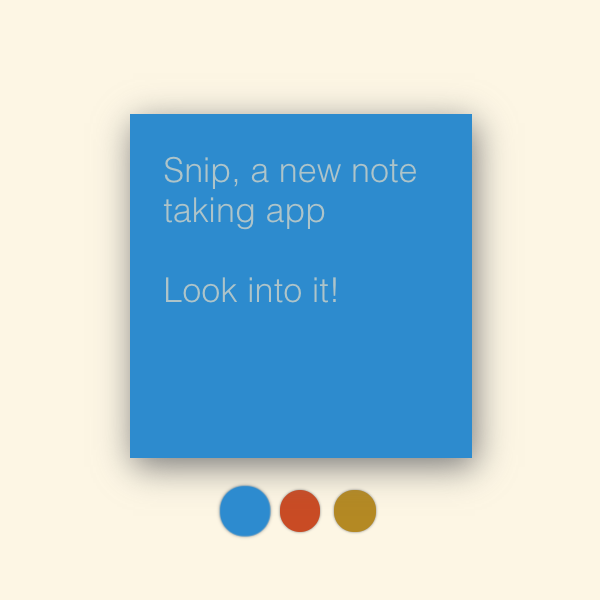
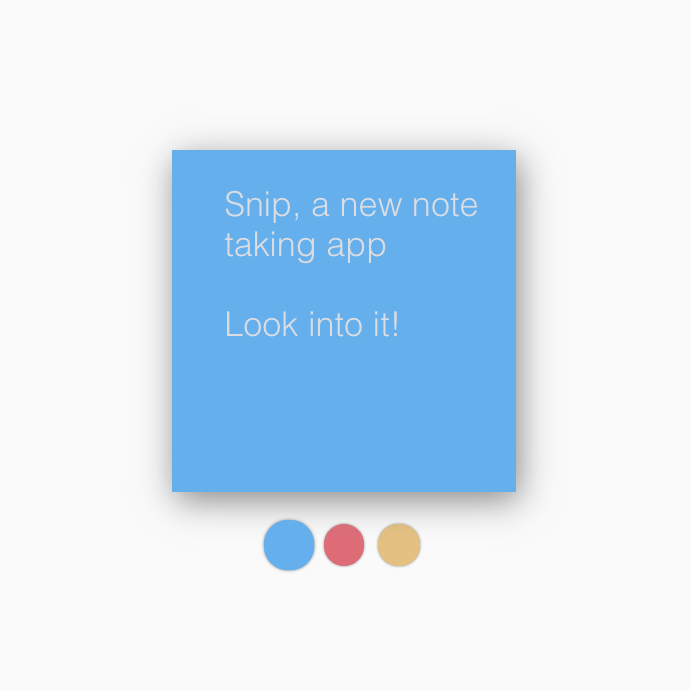
tweaks

diff --git a/css/theme.css b/css/theme.css
@@ -2,14 +2,22 @@ body {
   position: relative;
   display: flex;
   flex-direction: column;
-  font-family: "Inter", sans-serif;
-  background-color: rgb(247, 166, 145);
-  color: white;
+  font-family: "Noto Sans HK";
+  background-color: rgb(246, 249, 250);
+  color: rgb(53, 63, 68);
   justify-content: center;
 }
 
 body * {
   font-weight: lighter;
+  letter-spacing: normal;
+  speak: none;
+  font-style: normal;
+  font-weight: normal;
+  font-variant: normal;
+  text-transform: none;
+  line-height: 1.25;
+  -webkit-font-smoothing: antialiased;
 }
 
 em {
@@ -29,13 +37,22 @@ nav {
 }
 
 a {
-  color: white;
+  color: rgb(53, 63, 68);
+}
+
+h1 {
+  font-size: 2.5em;
+}
+
+h2 {
+  font-size: 2em;
 }
 
 h1,
 h2,
 h3 {
   text-align: center;
+  font-family: "Poppins";
 }
 
 .image-wrapper {
@@ -56,6 +73,7 @@ h3 {
   display: flex;
   align-items: center;
   justify-content: space-between;
+  font-family: "Poppins";
 }
 
 .nav-logo {
@@ -78,7 +96,8 @@ h3 {
 }
 
 .nav-account a {
-  border: 1px solid white;
+  border: 1px solid hsl(355, 65%, 65%);
+  color: hsl(355, 65%, 65%);
   padding: 0.33em;
   border-radius: 0.25em;
   text-decoration: none;
@@ -90,7 +109,7 @@ header {
   justify-content: center;
   align-items: center;
   padding-top: 4em;
-  padding-bottom: 4em;
+  padding-bottom: 5em;
 }
 
 .slogan-1 span {
@@ -98,19 +117,21 @@ header {
 }
 
 .big-screenshot {
-  width: 1317px;
+  width: 1346px;
 }
 
 .download-row {
+  font-family: "Poppins";
   display: flex;
 }
 
 .download-button {
-  font-size: 0.9em;
+  font-size: 1em;
   display: flex;
-  border: 1px solid white;
+  border: 1px solid hsl(355, 65%, 65%);
+  color: hsl(355, 65%, 65%);
   padding: 0.75em;
-  padding-bottom: 0.5em;
+  padding-bottom: 0.33em;
   border-radius: 0.25em;
   align-items: center;
   justify-content: center;
@@ -136,15 +157,11 @@ section {
   justify-content: center;
   align-items: center;
   flex-direction: column;
+  color: rgb(107, 112, 115);
 }
 
 section:nth-child(odd) {
   background-color: white;
-  color: rgb(247, 166, 145);
-}
-
-section:nth-child(odd) a {
-  color: rgb(247, 166, 145);
 }
 
 section:only-of-type {
@@ -184,8 +201,6 @@ section:only-of-type a {
   font-weight: bold;
   margin-bottom: 0.15em;
   display: block;
-  /* font-style: italic; */
-  /* font-size: 1.25em; */
 }
 
 .section-row-informative .section-tile {
@@ -218,6 +233,15 @@ section:only-of-type a {
   text-align: center;
 }
 
+.section-tile span {
+  font-size: 1.25em;
+  max-width: 19em;
+}
+
+.vision-tile > span {
+  font-size: 1.25em;
+}
+
 .snippet-examples-row {
   margin-left: 10em;
 }
@@ -247,18 +271,18 @@ section:only-of-type a {
   flex: 1;
 }
 
-.tag-example {
-  font-size: 0.95em;
+span.tag-example {
+  font-size: 0.75em;
   background-color: rgb(100, 174, 235);
   color: white;
-  padding: 0.1em;
+  padding-bottom: 0.1em;
   padding-left: 0.5em;
   padding-right: 0.5em;
   border-radius: 1em;
 }
 
 .tags-screenshot {
-  width: 329px;
+  width: 285px;
 }
 
 .quick-access-example-tile {
@@ -266,7 +290,7 @@ section:only-of-type a {
 }
 
 .quick-access-example-tile img {
-  width: 744px;
+  width: 752px;
 }
 
 .vision-section-row {
@@ -316,11 +340,12 @@ section:only-of-type a {
   transform: rotateZ(-15deg);
   font-size: 0.25em;
   background-color: rgb(100, 174, 235);
+  background-color: hsl(355, 65%, 65%);
   color: white;
   padding: 0.25em;
   padding-left: 0.5em;
   padding-right: 0.5em;
-  opacity: 0.5;
+  opacity: 0.75;
 }
 
 .snip-cloud-banner::after {
@@ -341,7 +366,6 @@ footer {
 
 .footer-logo {
   font-size: 0.75em;
-  margin-right: 5em;
 }
 
 .footer-tile {

diff --git a/index.html b/index.html
@@ -28,7 +28,13 @@
 
     <link rel="preconnect" href="https://fonts.gstatic.com" />
     <link
-      href="https://fonts.googleapis.com/css2?family=Inter&display=swap"
+      href="https://fonts.googleapis.com/css2?family=Poppins:wght@700&display=swap"
+      rel="stylesheet"
+    />
+
+    <link rel="preconnect" href="https://fonts.gstatic.com" />
+    <link
+      href="https://fonts.googleapis.com/css2?family=Noto+Sans+HK:wght@300&display=swap"
       rel="stylesheet"
     />
 
@@ -81,7 +87,11 @@
       </span>
     </a>
 
-    <a href="https://getsnip.io/client" target="_blank">
+    <a
+      href="https://getsnip.io/client"
+      target="_blank"
+      class="download-row-web-version"
+    >
       <span class="download-button">
         <span>Web Version</span>
         <i class="material-icons">open_in_new</i>
@@ -133,7 +143,10 @@
 <section>
   <div class="section-row">
     <div class="section-tile tags-tile">
-      <h2>Tags are Folders. Folders are Tags.</h2>
+      <h2>
+        Tags are Folders. <br />
+        Folders are Tags.
+      </h2>
       <span>
         Use tags in the classic sense, e.g.
         <span class="tag-example">lists</span>. Use a slash, like

diff --git a/templates/index.html b/templates/index.html
@@ -26,7 +26,11 @@
       </span>
     </a>
 
-    <a href="https://getsnip.io/client" target="_blank">
+    <a
+      href="https://getsnip.io/client"
+      target="_blank"
+      class="download-row-web-version"
+    >
       <span class="download-button">
         <span>Web Version</span>
         <i class="material-icons">open_in_new</i>
@@ -78,7 +82,10 @@
 <section>
   <div class="section-row">
     <div class="section-tile tags-tile">
-      <h2>Tags are Folders. Folders are Tags.</h2>
+      <h2>
+        Tags are Folders. <br />
+        Folders are Tags.
+      </h2>
       <span>
         Use tags in the classic sense, e.g.
         <span class="tag-example">lists</span>. Use a slash, like

diff --git a/privacy.html b/privacy.html
@@ -28,7 +28,13 @@
 
     <link rel="preconnect" href="https://fonts.gstatic.com" />
     <link
-      href="https://fonts.googleapis.com/css2?family=Inter&display=swap"
+      href="https://fonts.googleapis.com/css2?family=Poppins:wght@700&display=swap"
+      rel="stylesheet"
+    />
+
+    <link rel="preconnect" href="https://fonts.gstatic.com" />
+    <link
+      href="https://fonts.googleapis.com/css2?family=Noto+Sans+HK:wght@300&display=swap"
       rel="stylesheet"
     />
 

diff --git a/support.html b/support.html
@@ -28,7 +28,13 @@
 
     <link rel="preconnect" href="https://fonts.gstatic.com" />
     <link
-      href="https://fonts.googleapis.com/css2?family=Inter&display=swap"
+      href="https://fonts.googleapis.com/css2?family=Poppins:wght@700&display=swap"
+      rel="stylesheet"
+    />
+
+    <link rel="preconnect" href="https://fonts.gstatic.com" />
+    <link
+      href="https://fonts.googleapis.com/css2?family=Noto+Sans+HK:wght@300&display=swap"
       rel="stylesheet"
     />
 

diff --git a/templates/template.html b/templates/template.html
@@ -28,7 +28,13 @@
 
     <link rel="preconnect" href="https://fonts.gstatic.com" />
     <link
-      href="https://fonts.googleapis.com/css2?family=Inter&display=swap"
+      href="https://fonts.googleapis.com/css2?family=Poppins:wght@700&display=swap"
+      rel="stylesheet"
+    />
+
+    <link rel="preconnect" href="https://fonts.gstatic.com" />
+    <link
+      href="https://fonts.googleapis.com/css2?family=Noto+Sans+HK:wght@300&display=swap"
       rel="stylesheet"
     />
 

diff --git a/terms.html b/terms.html
@@ -28,7 +28,13 @@
 
     <link rel="preconnect" href="https://fonts.gstatic.com" />
     <link
-      href="https://fonts.googleapis.com/css2?family=Inter&display=swap"
+      href="https://fonts.googleapis.com/css2?family=Poppins:wght@700&display=swap"
+      rel="stylesheet"
+    />
+
+    <link rel="preconnect" href="https://fonts.gstatic.com" />
+    <link
+      href="https://fonts.googleapis.com/css2?family=Noto+Sans+HK:wght@300&display=swap"
       rel="stylesheet"
     />
 

diff --git a/windows.html b/windows.html
@@ -28,7 +28,13 @@
 
     <link rel="preconnect" href="https://fonts.gstatic.com" />
     <link
-      href="https://fonts.googleapis.com/css2?family=Inter&display=swap"
+      href="https://fonts.googleapis.com/css2?family=Poppins:wght@700&display=swap"
+      rel="stylesheet"
+    />
+
+    <link rel="preconnect" href="https://fonts.gstatic.com" />
+    <link
+      href="https://fonts.googleapis.com/css2?family=Noto+Sans+HK:wght@300&display=swap"
       rel="stylesheet"
     />
 

diff --git a/css/mobile.css b/css/mobile.css
@@ -27,8 +27,13 @@
 }
 
 @media only screen and (max-width: 800px) {
+  header {
+    padding-bottom: 2em;
+  }
+
   .download-row {
     flex-direction: column;
+    font-size: 0.75em;
   }
 
   .vision-row {
@@ -79,6 +84,7 @@
   }
 
   .footer-tile {
+    font-size: 0.75em;
     flex-direction: column;
     align-items: center;
   }
